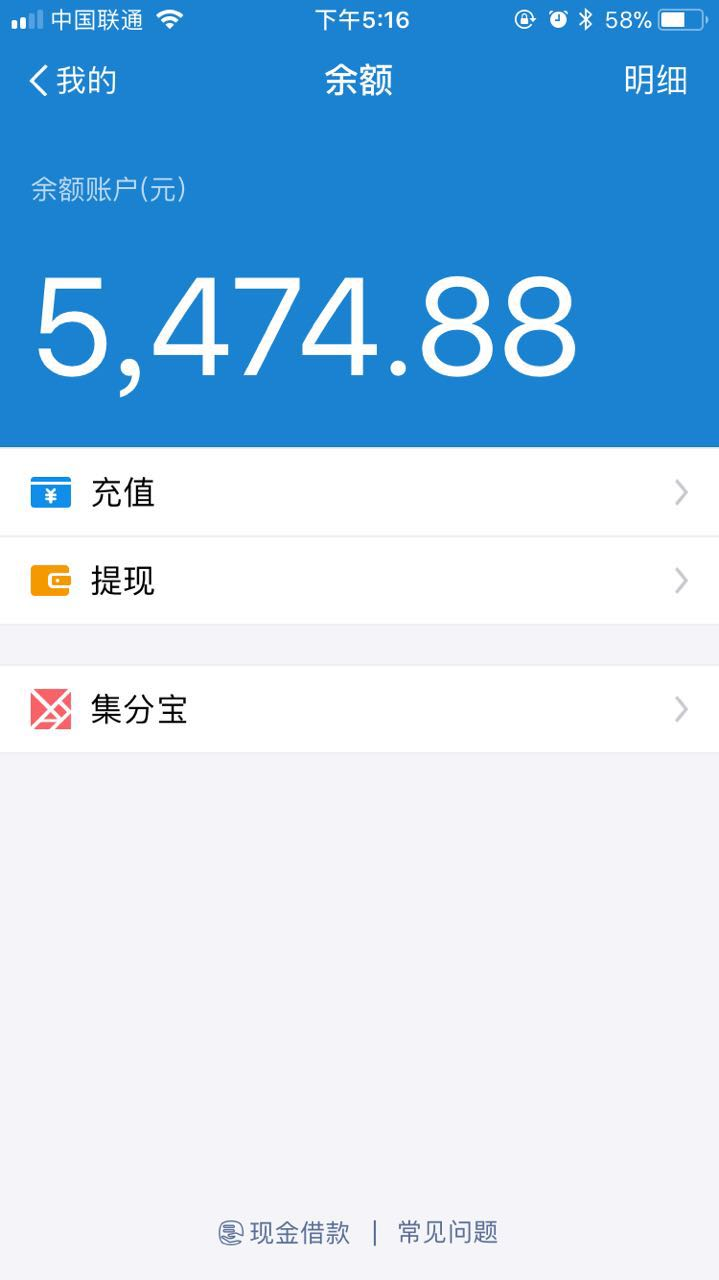
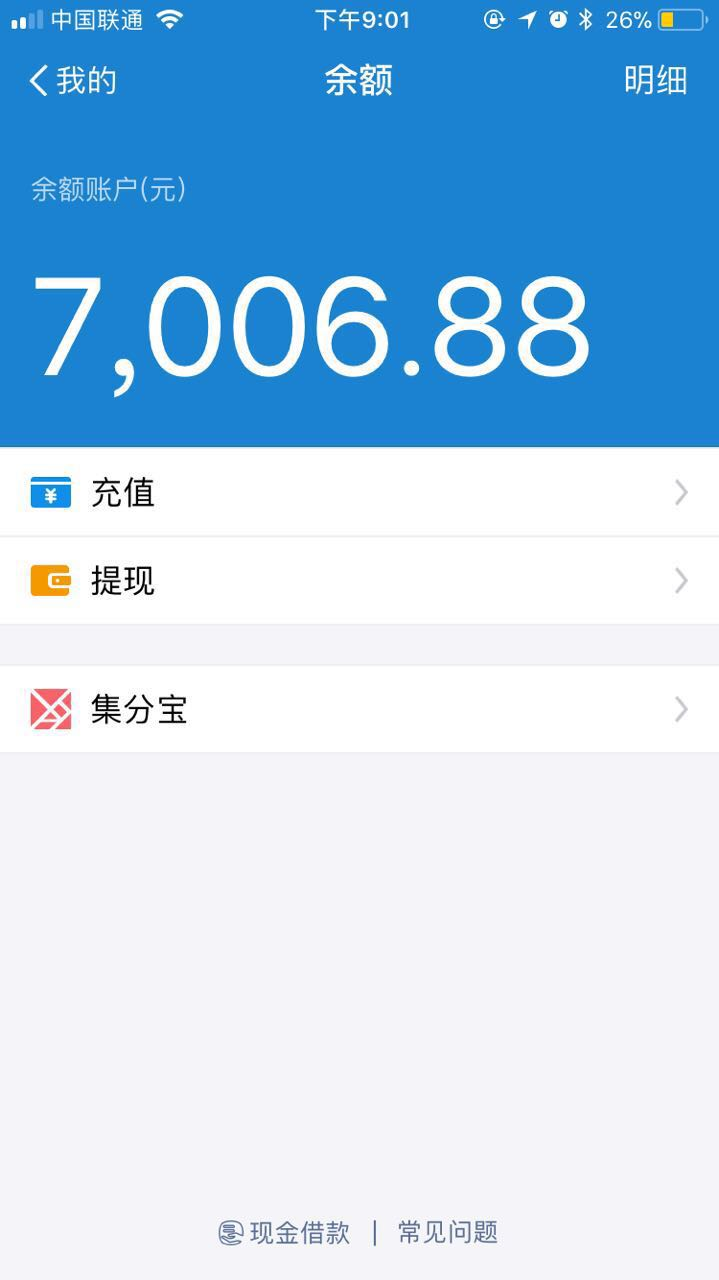
income: baiduefe 1332元 20170808 开源组织赞助 echarts和san冠名赞助

diff --git a/README.md b/README.md
@@ -103,10 +103,18 @@ Commit Message 需按照此格式：
 | @int64ago  | 100.00 | 2017-08-06 | 个人赞助 | [#7](https://github.com/Hangzhou-Node-Party/JS-OpenSource-Foundation/issues/7) |
 | @掘金  | 2000.00 | 2017-08-08 | 企业赞助 | [#8](https://github.com/Hangzhou-Node-Party/JS-OpenSource-Foundation/issues/8) |
 | @diysimon  | 200.00 | 2017-08-08 | 个人赞助 | [#13](https://github.com/Hangzhou-Node-Party/JS-OpenSource-Foundation/issues/13) |
+| @ECharts  | 666.00 | 2017-08-08 | 开源组织赞助 | [#14](https://github.com/Hangzhou-Node-Party/JS-OpenSource-Foundation/issues/14) |
+| @SAN  | 666.00 | 2017-08-08 | 开源组织赞助 | [#15](https://github.com/Hangzhou-Node-Party/JS-OpenSource-Foundation/issues/15) |
 
 感谢以下企业的赞助：
 
 [![](./img/juejin_logo.png)](https://juejin.im)
+
+感谢以下开源组织的赞助：
+
+![](./img/san_logo.png)](https://ecomfe.github.io/san/)
+
+![](./img/echarts_logo.png)](https://github.com/ecomfe/echarts)
 
 > 活动收入挂在讲师名下记录，其他赞助个人和企业名义记录。
 
@@ -121,8 +129,8 @@ Commit Message 需按照此格式：
 <!-- money start -->
 | 款项 | 金额 |
 |------|------|
-| **总额** | 5474.88 元 |
-| **本月收入** | 5474.88 元 |
+| **总额** | 7006.88 元 |
+| **本月收入** | 7006.88 元 |
 | **本月支出** | 0 元 |
 <!-- money end -->
 

diff --git a/INCOMING.md b/INCOMING.md
@@ -9,3 +9,5 @@
 | @int64ago  | 100.00 | 2017-08-06 | 个人赞助 | 这种形式不错，支持下 |
 | @掘金  | 2000.00 | 2017-08-08 | 企业赞助 | https://juejin.im |
 | @diysimon  | 200.00 | 2017-08-08 | 个人赞助 | 祖明个人赞助 |
+| @ECharts  | 666.00 | 2017-08-08 | 开源组织赞助 | https://ecomfe.github.io/san/ |
+| @SAN  | 666.00 | 2017-08-08 | 开源组织赞助 | https://github.com/ecomfe/echarts |
